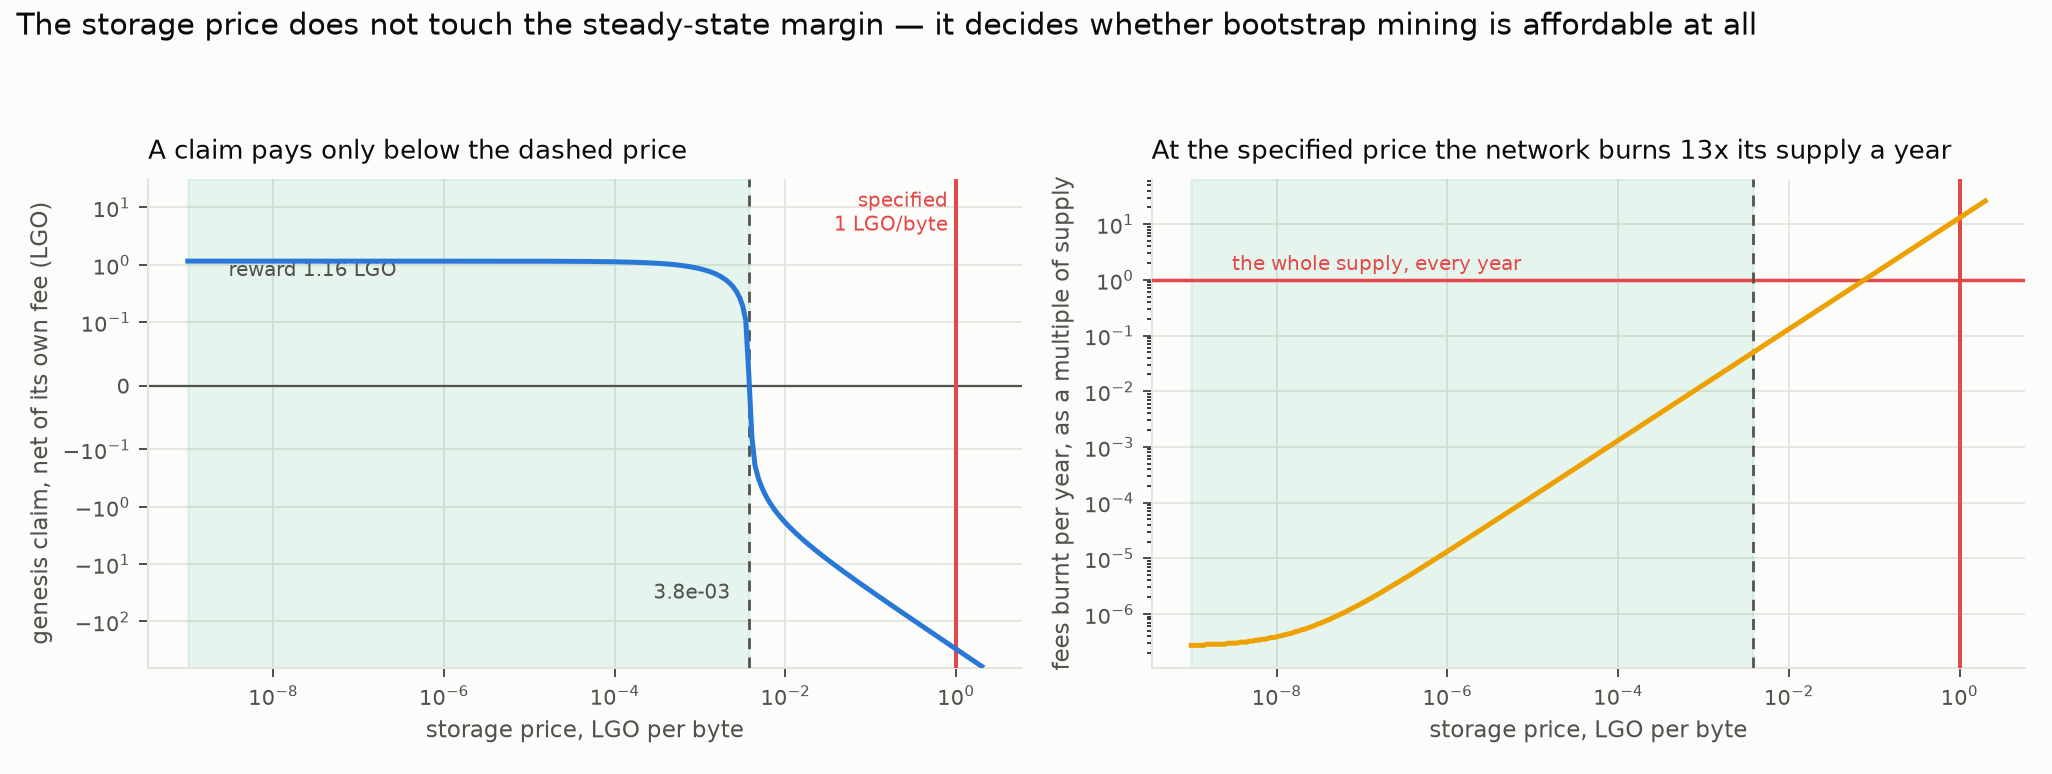
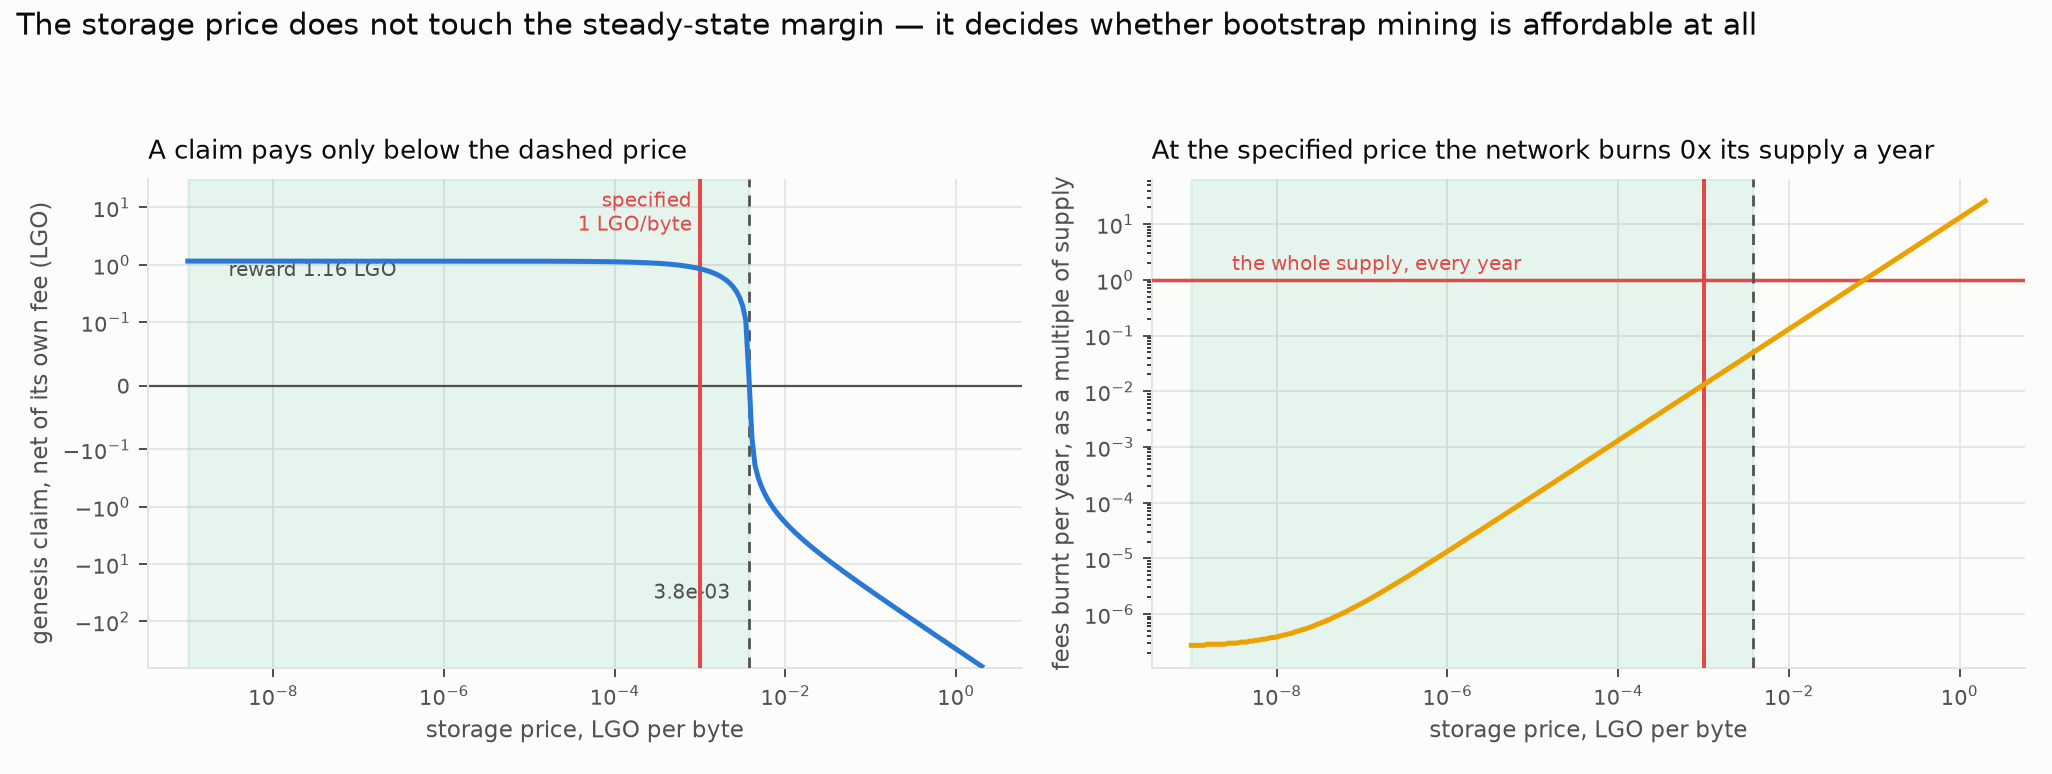
EmPoWering: reverse contradiction 4.8, and revise what the fee correction invalidated
Two documents were left saying things the fee correction had made false, and one of them is
why the error existed.

CONTRADICTIONS 4.8 resolved the storage price to one LEPTON, calling the specification's
"1 LGO" display wording from before the denomination was set. That is wrong.
storage-markets.md:112-126 reasons about the value as an economic quantity across a full
paragraph and concludes "This corresponds to a cost of 1 LGO per permanently stored byte.
Genesis governance may adjust this value based on the LGO price at TGE" -- nobody writes that
about a display convention. Nor do the two texts actually conflict: Mantle's "whole lepta per
unit of gas" fixes the DENOMINATION, the storage document fixes THIS MARKET'S VALUE within it.
Both hold at once. The old resolution note read "confirms the fee model already in use", which
is the tell -- it was resolved to agree with the model rather than with the documents. Now
reversed, with the residual issue recorded where it belongs: not a contradiction but an
unsatisfied requirement, since the same passage demands the price be low enough not to
suppress early adoption and 1 LGO/byte suppresses it completely. That one is for upstream.

The target-parameterisation note needed more than new numbers. Its first inversion assumed the
endowment is the only source of a miner's first tokens, so that a node target sized
genesis_pool. With fees priced correctly the pool holds its level and 268 bonds an epoch are
[…]

Changed region(s): [[0.8109, 0.186, 0.9669, 0.2171], [0.4055, 0.2481, 0.4678, 0.3101], [0.2807, 0.2481, 0.3431, 0.3101]]

diff --git a/tools/simulators/empowering/src/empowering_sim/plots_inscription.py b/tools/simulators/empowering/src/empowering_sim/plots_inscription.py
@@ -55,19 +55,24 @@ def bundle_cost(cfg: Config, out: Path) -> Path:
 
     f, (a0, a1) = _fig(11.4, 4.3)
     a0.bar(x, [floor] * len(n), 0.62, color=TRANSFER, zorder=3, label="the transfer itself")
-    a0.bar(x, insc, 0.62, bottom=[floor + 2] * len(n), color=INSCRIPT, zorder=3,
+    # The spacer between the two segments must scale with the bars: a fixed offset that reads
+    # as a hairline at one storage price detaches the segments entirely at another.
+    gap = max(insc.max(), floor) * 0.004
+    a0.bar(x, insc, 0.62, bottom=[floor + gap] * len(n), color=INSCRIPT, zorder=3,
            label="the inscription")
     a0.set_xticks(x); a0.set_xticklabels([f"{v}" for v in n])
     a0.set_xlabel("inscription, bytes", color=INK_2, fontsize=9)
     a0.set_ylabel(f"bundle cost, LGO at {cfg.storage_price_lgo:g} LGO/byte", color=INK_2,
                   fontsize=9)
-    a0.yaxis.set_major_formatter(FuncFormatter(lambda v, _: f"{v:,.0f}"))
+    _dp = 0 if floor >= 100 else (1 if floor >= 10 else 2)
+    a0.yaxis.set_major_formatter(FuncFormatter(lambda v, _: f"{v:,.{_dp}f}"))
     a0.set_title("A transfer's own encoding is the floor", color=INK, fontsize=10.5,
                  loc="left", pad=8)
     a0.legend(frameon=False, fontsize=8.5, labelcolor=INK_2, loc="upper left")
     for i, r in enumerate(rows):
         if r.inscription_bytes in (4, 256, 1024):
-            a0.text(i, cfg.to_lgo(r.bundle) + floor * 0.06, f"{r.inscription_share:.0%}",
+            a0.text(i, cfg.to_lgo(r.bundle) + max(insc.max(), floor) * 0.03,
+                    f"{r.inscription_share:.0%}",
                     ha="center", fontsize=8, color=INK_2)
 
     margin = np.array([r.margin for r in rows])

diff --git a/tools/simulators/empowering/docs/TARGET-PARAMETERISATION.md b/tools/simulators/empowering/docs/TARGET-PARAMETERISATION.md
@@ -1,5 +1,12 @@
 # Parameterising by outcome instead of by rate
 
+> **Revised after the fee correction.** This note was first written against a fee model that
+> applied one price to both gas markets and so understated every fee by essentially its whole
+> storage component. Two of the three inversions moved, and the first one changed *shape*
+> rather than just value: the pool turns out to be self-sustaining, so a node target no longer
+> sizes an endowment. The corrected version is below; the conclusion — that the
+> reparameterisation is sound and worth doing — survives intact, and is if anything stronger.
+
 A design note on the proposal to make the mechanism's controlling values **how many nodes we want to onboard** and **how long we want that to take**, with everything else derived.
 
 ## The short answer
@@ -12,27 +19,27 @@ Three outcomes map one-to-one onto three parameters. Each is a closed form — n
 
 | you state | it determines | how |
 | --- | --- | --- |
-| `nodes_to_onboard` | `genesis_pool` | `genesis_pool = nodes_to_onboard * min_stake / conversion_efficiency` |
+| `nodes_to_onboard` | the **time** it takes, not the endowment | `epochs = nodes_to_onboard * min_stake / (conversion_efficiency * epoch_refill)` |
 | `bootstrap_years` | `distribution_rate` | `distribution_rate = 1 - remaining_fraction ** (1 / bootstrap_epochs)` |
 | `steady_reward` (a transaction bundle) | `pow_share` | `pow_share = bundle * target_claims_per_block / (txs_per_block * avg_tx_fee)` |
 
-The first follows from the pool being the only source of a miner's first tokens; the second from the pool's decay being geometric at exactly `distribution_rate`; the third from the fee-funded steady state being the refill spread over an epoch's claims.
+The second follows from the pool's decay being geometric at exactly `distribution_rate`; the third from the fee-funded steady state being the refill spread over an epoch's claims. The first used to follow from the pool being the only source of a miner's first tokens — and that is the premise that broke.
 
-Checked against the current settings: `genesis_pool` of 50M LGO onboards 25,950 nodes at the good conversion efficiency and 5,700 at the bad one, which is what the elevation study measured. `distribution_rate = 1/200` corresponds to 90% of the pool spent in 9.4 years.
+Checked against the current settings: `distribution_rate = 1/200` corresponds to 90% of the endowment spent in 9.4 years, and the elevation study measures 23 bonds an epoch without retirement and 50 with.
 
-## What it exposes: conversion efficiency
+## What changed: a node target buys time, not budget
 
-The first inversion has a term the current parameterisation never asks about. The pool does not convert into bonds cleanly — most of what it pays out lands in balances that never reach the threshold. The elevation study measured **11.4%** when bonded miners keep mining and **51.9%** when they retire.
+The first inversion assumed the endowment is the only source of a miner's first tokens, so that `nodes_to_onboard` sized `genesis_pool`. With fees priced correctly that is false. The refill runs slightly ahead of what the pool pays, the pool holds its level indefinitely, and `epoch_refill / min_stake` = **268 bonds an epoch** are funded from fees alone, forever. There is no endowment large enough to be the binding constraint, because the endowment is not being consumed.
 
-So the budget for a stated onboarding target is not one number but a range:
+So a node target does not fix a budget. It fixes a **duration**, and the parameter it inverts onto is the schedule rather than the pool:
 
-| nodes to onboard | at 51.9% efficiency | at 11.4% efficiency |
+| nodes to onboard | bonded miners retire (50/epoch) | bonded miners keep mining (23/epoch) |
 | --- | --- | --- |
-| 1,000 | 1.9M LGO | 8.8M LGO |
-| 10,000 | 19.3M LGO | 87.7M LGO |
-| 50,000 | 96.3M LGO | 438.6M LGO |
+| 1,000 | 20 epochs (0.4 yr) | 43 epochs (0.9 yr) |
+| 10,000 | 200 epochs (4.1 yr) | 431 epochs (8.9 yr) |
+| 50,000 | 1,001 epochs (20.6 yr) | 2,155 epochs (44.3 yr) |
 
-**This is the strongest argument for the reparameterisation.** Under the current scheme you set `genesis_pool = 0.5%` of supply and discover the outcome afterwards; under the proposed one you state the outcome and are immediately asked what the conversion efficiency is — which is an unspecified behaviour worth a factor of four and a half in the budget. At 10,000 nodes it is the difference between 0.19% and 0.88% of supply.
+**This is still the strongest argument for the reparameterisation, and now for a sharper reason.** The rate-based parameters cannot express an onboarding goal at all: `genesis_pool` sets a starting level that the mechanism then holds rather than spends. Stating the target forces the question of what actually limits the rate — and the answer is conversion efficiency, which is **8.9%** when bonded miners keep mining and **19.1%** when they retire. Nine-tenths of what the pool pays out lands in balances that never reach the bond. That is an unspecified behaviour worth a factor of two in the schedule, and nothing in the current parameterisation asks about it.
 
 ## What it constrains: a floor under `bootstrap_years`
 
@@ -51,11 +58,18 @@ A shorter bootstrap needs `target_claims_per_block` raised in step, and that thi
 
 Setting the steady reward to a transaction bundle inverts cleanly, and the answer is that the current share is about four times larger than the stated goal needs.
 
-| inscription | bundle | `pow_share` needed | against the current 10% |
-| --- | --- | --- | --- |
-| 256 B | 7,763 base units | **2.32%** | 0.23× |
-| 512 B | 9,555 | 2.85% | 0.29× |
-| 1024 B | 13,139 | 3.93% | 0.39× |
+| inscription | `pow_share` needed | against the current 10% |
+| --- | --- | --- |
+| 256 B | **3.73%** | 0.37× |
+| 512 B | 5.79% | 0.58× |
+| 1024 B | **9.91%** | 0.99× |
+
+The current 10% share is, to within a percent, *exactly* what a 1 kB bundle costs — which is the same fact the strategy report's §10 states from the other direction: the ceiling on the inscription is
+
+| `max_inscription_bytes = (pow_share * txs_per_block / target_claims_per_block - 1) * transfer_tx_bytes` |
+| --- |
+
+= **1,035 bytes**, and it is independent of the storage price because the price appears on both sides and cancels. So this inversion is not free to choose: picking a target inscription *is* picking `pow_share`, and picking 1 kB pins it at essentially the value it already has, with 1% of headroom. **256 bytes at a 3.73% share is the version with real margin.**
 
 One caveat: this holds at one traffic level. The fee-funded steady state scales with `txs_per_block`, so a share that exactly covers a bundle at 600 transactions covers ten bundles at 6,000. If the goal is that a claim covers a bundle *whatever the traffic*, the reward has to be **defined** as the bundle and the pool left to absorb the difference — which is a mechanism change rather than a re-parameterisation, and the only version that delivers the goal as stated.
 
@@ -73,9 +87,9 @@ To make the difficulty an onboarding controller it would have to retarget on som
 
 Little, and most of it is presentation:
 
-1. **A `targets.py` that inverts the three closed forms.** Trivial; they are the formulas above.
+1. **A `targets.py` that inverts the three closed forms.** Trivial; they are the formulas above. Not yet built.
 2. **The config takes targets and derives the parameters.** A presentation change, not a model change — the simulator computes the same things afterwards.
-3. **Conversion efficiency becomes an explicit input**, because the first inversion cannot be stated without it. This is the substantive part: it forces a currently-invisible behaviour into the parameter set.
+3. **Conversion efficiency becomes an explicit input**, because the first inversion cannot be stated without it. This is the substantive part: it forces a currently-invisible behaviour — worth a factor of two in the onboarding schedule — into the parameter set.
 4. **Only if the steady-state goal is to hold at every traffic level**: the reward gains a floor at the bundle. That one is a mechanism change and should be taken on its own merits.
 
 ## Is it easier to reason about?

diff --git a/tools/simulators/empowering/docs/CONTRADICTIONS.md b/tools/simulators/empowering/docs/CONTRADICTIONS.md
@@ -139,10 +139,36 @@ own text sets `P_STR(0) = 1` — one *unit*.
 gas and can never go below one"*, and it **defers explicitly to *Logos Token: Units and
 Precision***.
 
-**Resolved: one lepton.** Precedence would say otherwise, but the third rule applies: the
-storage document's "1 LGO" is display wording from before the denomination was set, and the
-Mantle text is reporting a governing units document rather than competing with it. A factor of
-10⁹ that would otherwise have moved every fee in the model.
+**Resolved: one LGO. This reverses an earlier resolution, which was wrong.**
+
+The earlier reading called the storage document's "1 LGO" display wording from before the
+denomination was set. It is not. `storage-markets.md:112-126` reasons about the value as an
+economic quantity across a full paragraph — how many epochs the market needs to climb from a
+starting price to the clearing price, why starting a tenth or a hundredth low costs 20 or 40
+epochs — and then states the conclusion in the plainest possible terms: *"This corresponds to
+a cost of **1 LGO per permanently stored byte**. Genesis governance may adjust this value based
+on the LGO price at TGE."* Nobody writes that sentence about a display convention.
+
+The two texts are also not in conflict once the scopes are read properly. Mantle's "whole lepta
+per unit of gas" fixes the **denomination** every price is quoted in; the storage document fixes
+**this market's value** within that denomination, at 10⁹ lepta. Both hold at once.
+
+**What the error cost.** The resolution note used to read "confirms the fee model already in
+use", which is the tell — the contradiction was resolved to agree with what the model already
+did rather than with the documents. That single-price model understated every fee by
+essentially its whole storage component, and with it the pool refill, the claim's own cost, the
+depletion horizon, the mining-versus-staking crossing and the equilibrium-era analysis. See the
+strategy report's §8 to §10 for what each of those became once the two markets were priced
+apart.
+
+**The residual issue is not a contradiction but an unsatisfied requirement**, and it belongs
+upstream: the same passage requires `P_STR(0)` be *"sufficiently low so as not to suppress
+early adoption"*, and 1 LGO per byte does the opposite. At that price a claim transaction costs
+306 LGO against a genesis reward of 1.16, so no miner can afford to mine and none ever reaches
+the bond, and the network burns thirteen times the entire supply in fees every year at the
+modelled traffic. The specification anticipates this by making the value adjustable at genesis;
+what it does not do is name a value that works. **Suggested upstream: state `P_STR(0)` near
+1e-3 LGO per byte, or state the requirement as a computable bound.**
 
 ## 4.9 `S_TGE` — 10¹⁰ or 10⁸
 
